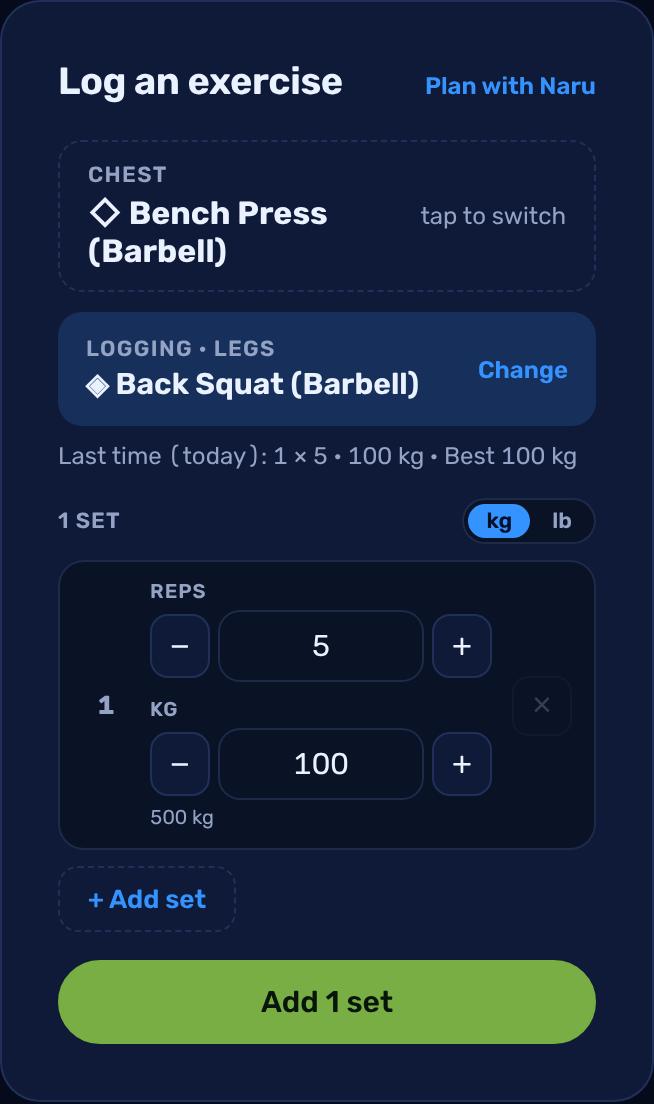
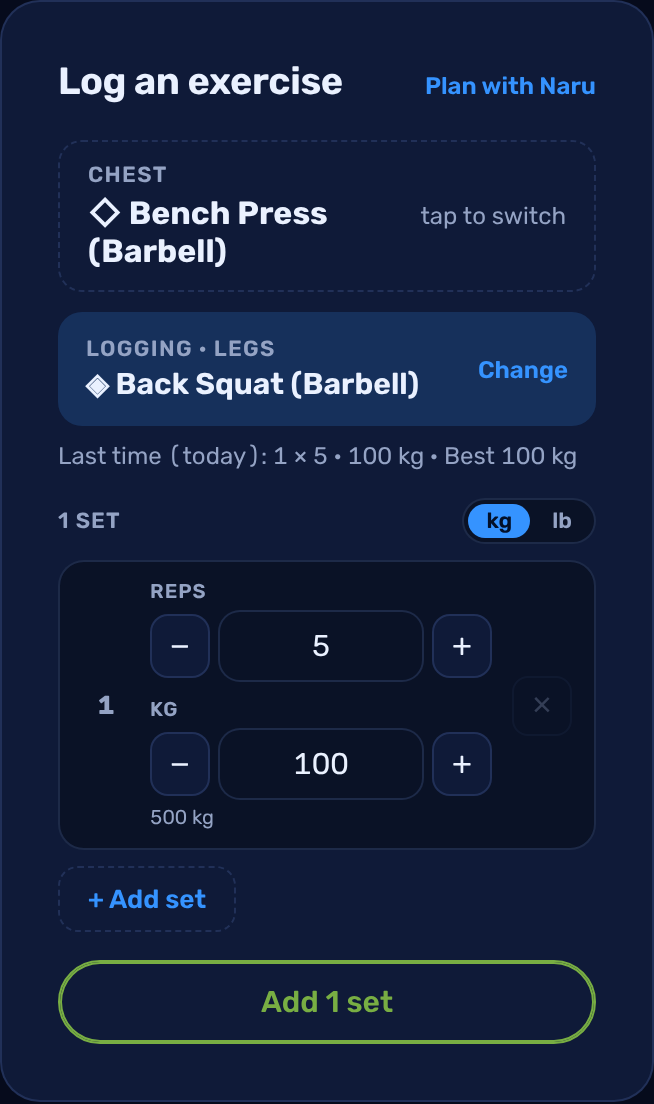
Phase 2 look: outline the green "go" button
A full-width green fill was the loudest thing on the light dashboard. It is
now a green outline (2px effective, via an inset shadow so the button doesn't
grow) with green text, and fills solid on hover/press.

Contrast holds: the green is 5.4:1 on a white card and 6.5:1 on the dark card.
Checked resting and hover states in both themes in a real browser. README
screenshots retaken; changelog entry reworded.

Claude-Session: https://claude.ai/code/session_01N4dMXB2CLaNfSseYYugWm8

Changed region(s): [[0.0917, 0.8623, 0.9174, 0.9547]]

diff --git a/src/styles/global.css b/src/styles/global.css
@@ -583,16 +583,24 @@ body {
 /* The one green button: the one you press to log a set, which is the most
    pressed control in the app and the nearest thing it has to XP's Start
    button. Kept to that single use — green anywhere else would turn "go" into
-   decoration. */
+   decoration.
+
+   An outline at rest, solid when you press: a full-width green fill was the
+   loudest thing on the light dashboard. The text is the green itself, which
+   holds 5.4:1 on a white card and 6.5:1 on the dark one. The inset shadow
+   thickens the 1px border to 2px without making the button taller, and the
+   background is transparent so it takes whatever surface it sits on. */
 .button.go {
-    color: var(--on-go);
-    background: var(--go);
+    color: var(--go);
+    background: transparent;
     border-color: var(--go);
+    box-shadow: inset 0 0 0 1px var(--go);
 }
 
 .button.go:hover:not(:disabled) {
-    background: var(--go-hover);
-    border-color: var(--go-hover);
+    color: var(--on-go);
+    background: var(--go);
+    border-color: var(--go);
 }
 
 .button.go:focus-visible {

diff --git a/CHANGELOG.md b/CHANGELOG.md
@@ -18,7 +18,9 @@ built on the phase 1 branch, so the two land together unless phase 1 merges firs
   colour of the Persona memory-card panel on the owner's site. **The light
   theme** is a pale-sky page (`#e8eff9`) under white cards.
 - **Two more colours, one job each.** Green is the "log a set" button and
-  nothing else, like XP's Start button. Yellow is the sticker: a filled label
+  nothing else, like XP's Start button — an outline at rest that fills solid
+  when you press it, so it stays the main action without being the loudest
+  thing on screen. Yellow is the sticker: a filled label
   with dark ink, shown only when something happens — a new personal best gets a
   yellow ring on its toast and a yellow "New best" line in the workout summary.
   No orange anywhere.
